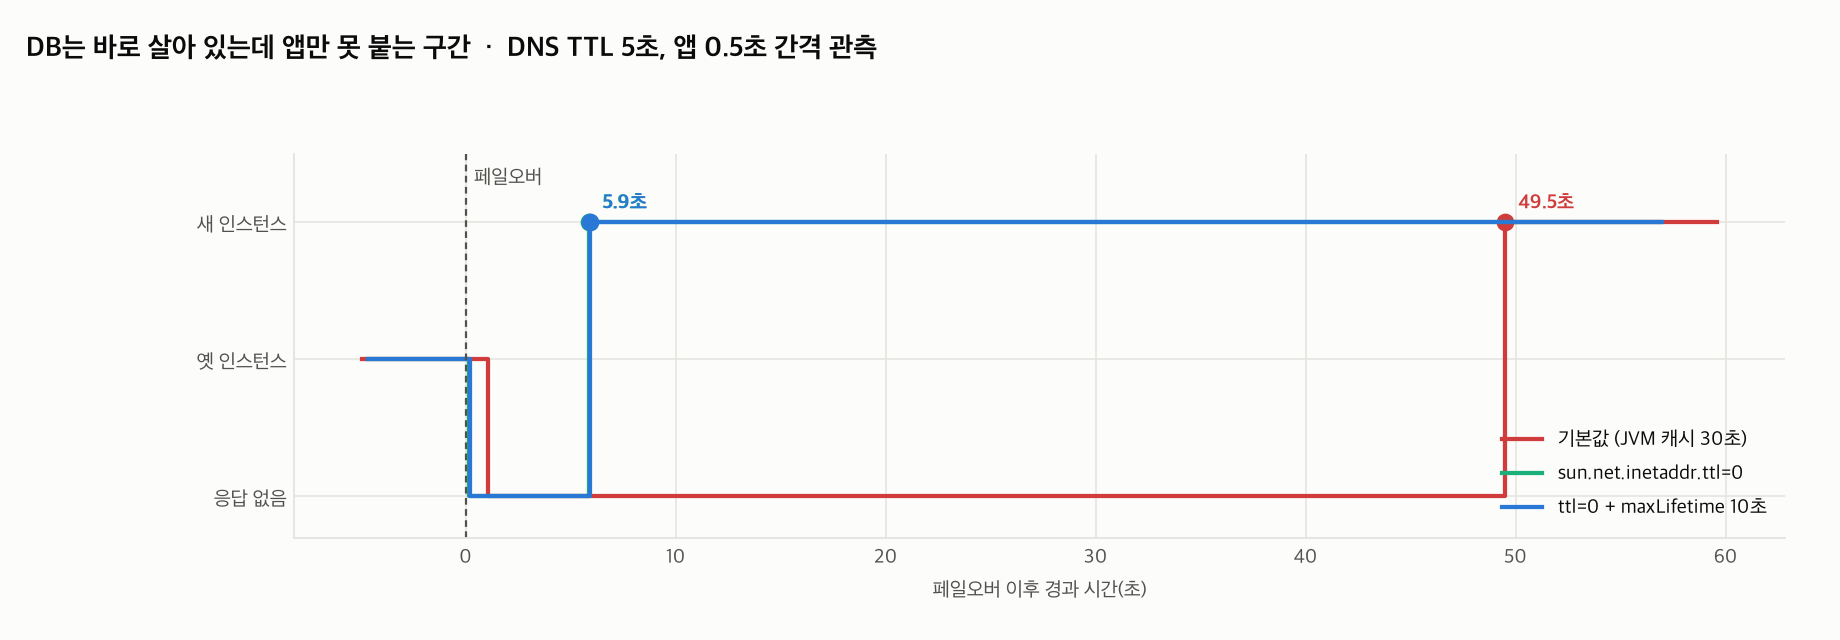
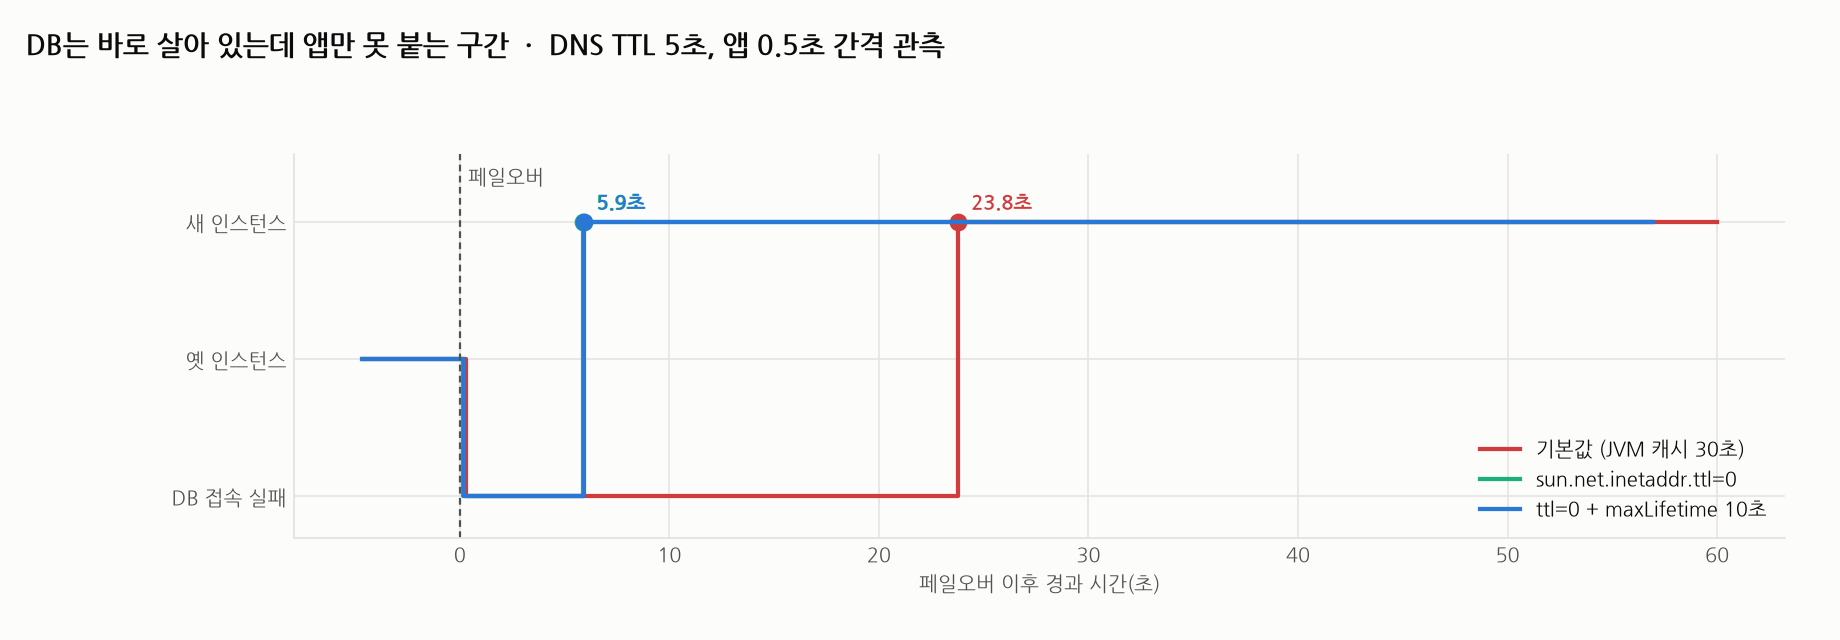
차트 다섯 세션을 현재 데이터로 다시 그리고 산문 검사를 붙임
글의 표는 고쳤는데 그림이 옛 값인 자리가 있었다. R02 차트가 49.5초를 그리고 있었고
본문은 23.8초였다. 리뷰어가 먼저 보는 것이 그림이라 이쪽이 더 아프다.

R02 는 y축 라벨도 사실과 달랐다. db 가 OK 가 아닌 구간을 '응답 없음'으로 그렸는데
결과 파일을 보면 resolved 는 채워져 있고 db 만 ERR:CannotGetJdbcConnection 이다.
앱은 응답했고 못 한 것은 DB 접속이다. 라벨을 'DB 접속 실패'로 고쳤다.

R13 은 render.json 에 손으로 적은 0.53초와 41.83초가 남아 있어 값과 설명을 함께
갱신했다. R16·R03·R17·R12 는 결과 파일에서 다시 그리니 그림이 바뀌었다.

호스트에 matplotlib 이 없어 그 곡선들이 한동안 옛 데이터인 채였다.
tools/render-mpl 로 렌더 환경을 컨테이너에 가뒀다.

검사기가 표 행만 보던 것도 고쳤다. R13 의 '못 한 것'이 6절 표의 옛 값 0.53초를
그대로 인용하고 있었는데 표만 보는 검사로는 안 걸렸다. --prose 를 붙이면 표 밖
문장도 본다.

Claude-Session: https://claude.ai/code/session_011WxdjPf1ggsWNQBK9L238L

diff --git a/tools/check-published-numbers.py b/tools/check-published-numbers.py
@@ -12,6 +12,14 @@
   python3 tools/check-published-numbers.py                 # 전 세션
   python3 tools/check-published-numbers.py R04 A18         # 일부만
   python3 tools/check-published-numbers.py --blog <경로>   # 블로그 글도 함께
+  python3 tools/check-published-numbers.py --prose         # 표 밖 산문까지
+
+## 표만 보면 놓치는 자리
+
+처음에는 표 행만 봤다. 그런데 "못 한 것" 절이 표의 값을 다시 인용하는 자리가 있고,
+표를 고치면서 그쪽을 안 고치면 한 글 안에 두 값이 남는다. 실제로 R13 에서 6절 표를
+0.07초로 고쳤는데 "못 한 것"이 0.53초를 그대로 인용하고 있었고, 표만 보는 검사는
+그것을 못 잡았다. --prose 를 붙이면 표 밖 문장도 본다(후보가 크게 늘어난다).
 
 ## 무엇을 못 잡는가
 
@@ -58,7 +66,7 @@ def variants(tok: str):
         out.add(bare + '.0')
     return {v for v in out if v}
 
-def scan(doc: pathlib.Path, results: pathlib.Path):
+def scan(doc: pathlib.Path, results: pathlib.Path, prose: bool = False):
     if not doc.exists():
         return None
     haystack = []
@@ -72,10 +80,13 @@ def scan(doc: pathlib.Path, results: pathlib.Path):
     blob = '\n'.join(haystack)
     missing = []
     for lineno, line in enumerate(doc.read_text(encoding='utf-8').splitlines(), 1):
-        if not line.lstrip().startswith('|'):
-            continue                     # 표 행만 본다
-        if set(line.strip()) <= set('|-: '):
+        is_table = line.lstrip().startswith('|')
+        if not is_table and not prose:
+            continue                     # 기본은 표 행만 본다
+        if is_table and set(line.strip()) <= set('|-: '):
             continue                     # 구분선
+        if not is_table and (line.lstrip().startswith(('#', '>', '```')) or '`' in line):
+            continue                     # 헤딩·인용·코드가 섞인 줄은 건너뛴다
         for tok in NUM.findall(line):
             if not significant(tok):
                 continue
@@ -85,6 +96,7 @@ def scan(doc: pathlib.Path, results: pathlib.Path):
 
 def main():
     args = [a for a in sys.argv[1:] if not a.startswith('-')]
+    prose = '--prose' in sys.argv
     blog_dir = None
     if '--blog' in sys.argv:
         blog_dir = pathlib.Path(sys.argv[sys.argv.index('--blog') + 1])
@@ -104,7 +116,7 @@ def main():
             if cand.exists():
                 docs.append(cand)
         for doc in docs:
-            miss = scan(doc, s / "results")
+            miss = scan(doc, s / "results", prose=prose)
             if miss:
                 total += len(miss)
                 print(f"\n=== {name} · {doc.name} · 후보 {len(miss)}건 ===")

diff --git a/sessions/R02-failover-dns-cache/scripts/report.py b/sessions/R02-failover-dns-cache/scripts/report.py
@@ -31,7 +31,10 @@ def load(label):
         elif d.get("db") == "OK":
             state = 1      # 아직 옛 인스턴스
         else:
-            state = 0      # 응답 없음
+            # 앱은 응답한다. 못 하는 것은 DB 접속이다. 처음에는 이 상태를
+            # "응답 없음"으로 그렸는데, 결과 파일을 보면 resolved 는 채워져 있고
+            # db 만 ERR:CannotGetJdbcConnectionException 이다. 라벨을 사실에 맞춘다.
+            state = 0      # DB 접속 실패(앱은 응답함)
         pts.append((t, state, d.get("resolved")))
     return pts
 
@@ -66,7 +69,7 @@ def main():
     ax.axvline(0, color=M, lw=1, ls=(0, (3, 2)))
     ax.text(0.4, 2.28, "페일오버", color=M, fontsize=9)
     ax.set_yticks([0, 1, 2])
-    ax.set_yticklabels(["응답 없음", "옛 인스턴스", "새 인스턴스"])
+    ax.set_yticklabels(["DB 접속 실패", "옛 인스턴스", "새 인스턴스"])
     ax.set_ylim(-0.3, 2.5)
     ax.set_xlabel("페일오버 이후 경과 시간(초)", color=M, fontsize=9)
     ax.set_facecolor(S)
